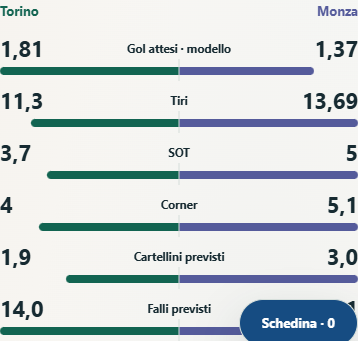
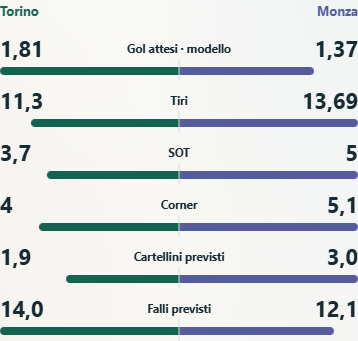
falli

Changed region(s): [[0.6453, 0.8798, 1.0, 1.0]]

diff --git a/scripts/predictions/engine.js b/scripts/predictions/engine.js
@@ -1382,6 +1382,7 @@ function teamFoulProjection(disciplineProfile, teamMatchupProfile) {
     // Reuse the existing observed mean, only from a complete, pre-fixture sample.
     // A missing foul count must never become an observed zero.
     if (cutoff?.completedOnly === true && Number.isInteger(cutoff.asOfMatchdayExclusive)
+      && Number.isInteger(cutoff.latestMatchdayUsed)
       && cutoff.latestMatchdayUsed < cutoff.asOfMatchdayExclusive
       && current?.matches > 0 && distribution?.sampleSize === current.matches
       && Number.isFinite(current.foulsCommittedPerGame) && current.foulsCommittedPerGame >= 0) {
